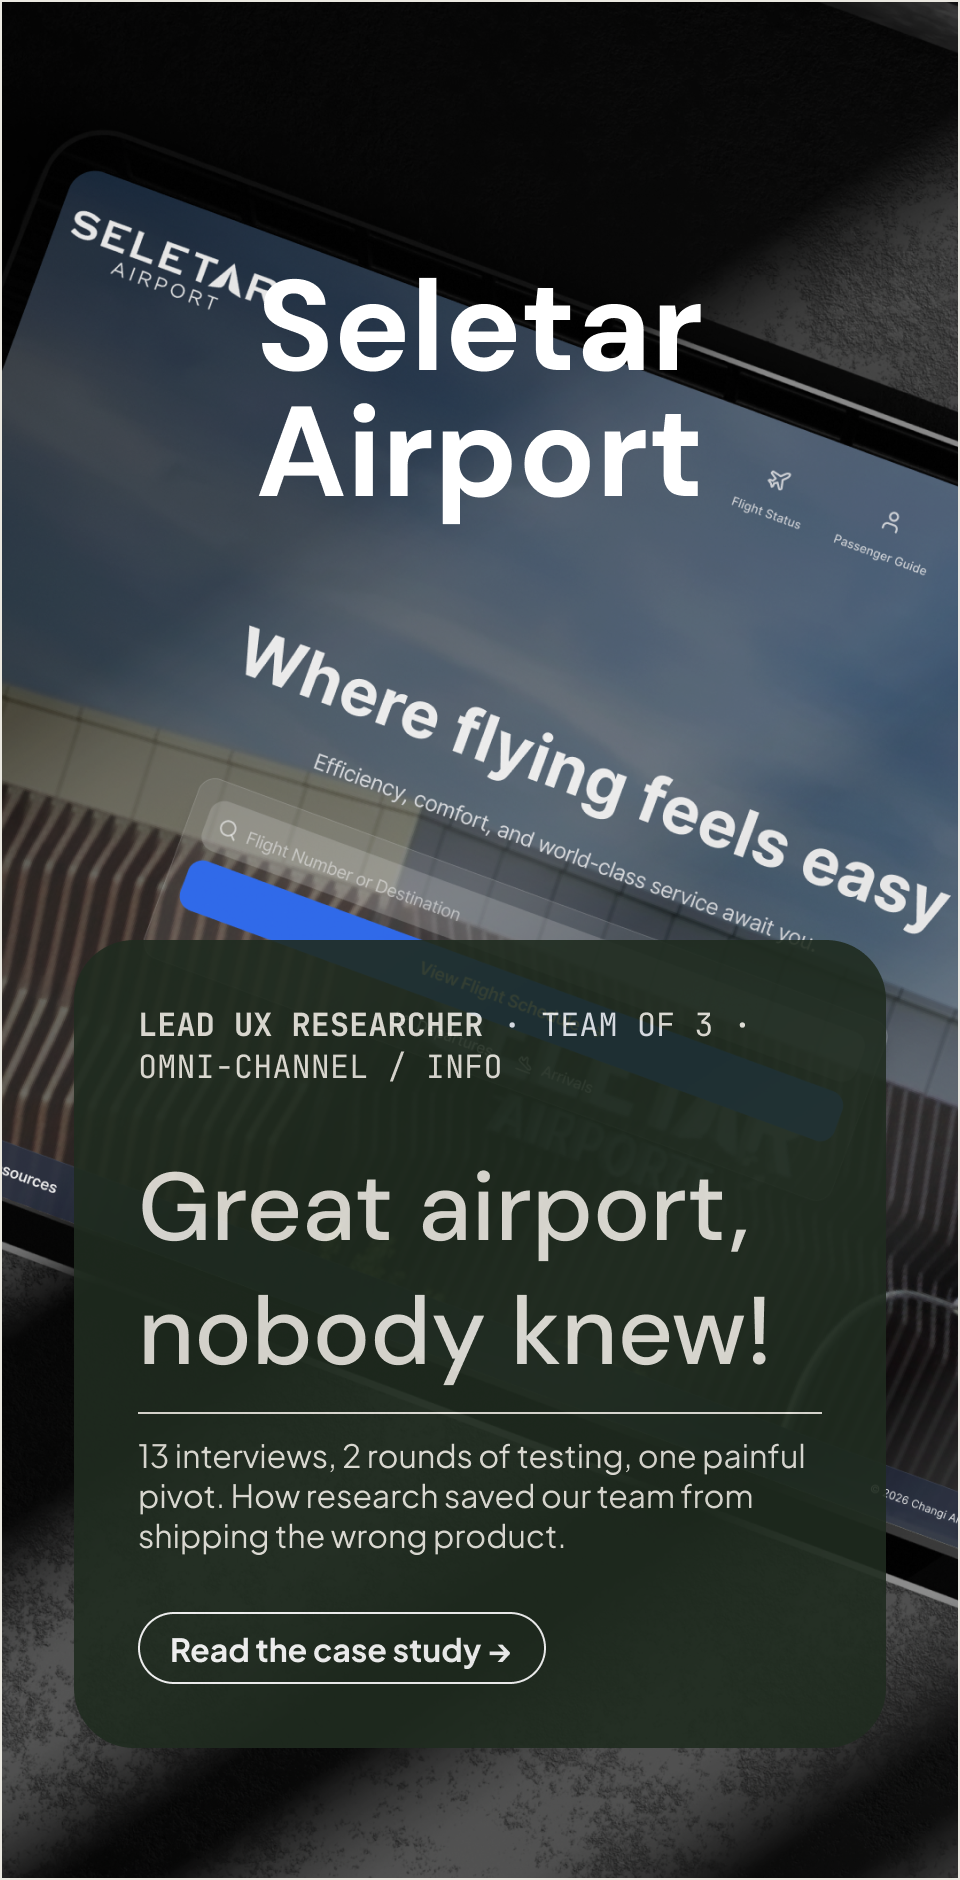
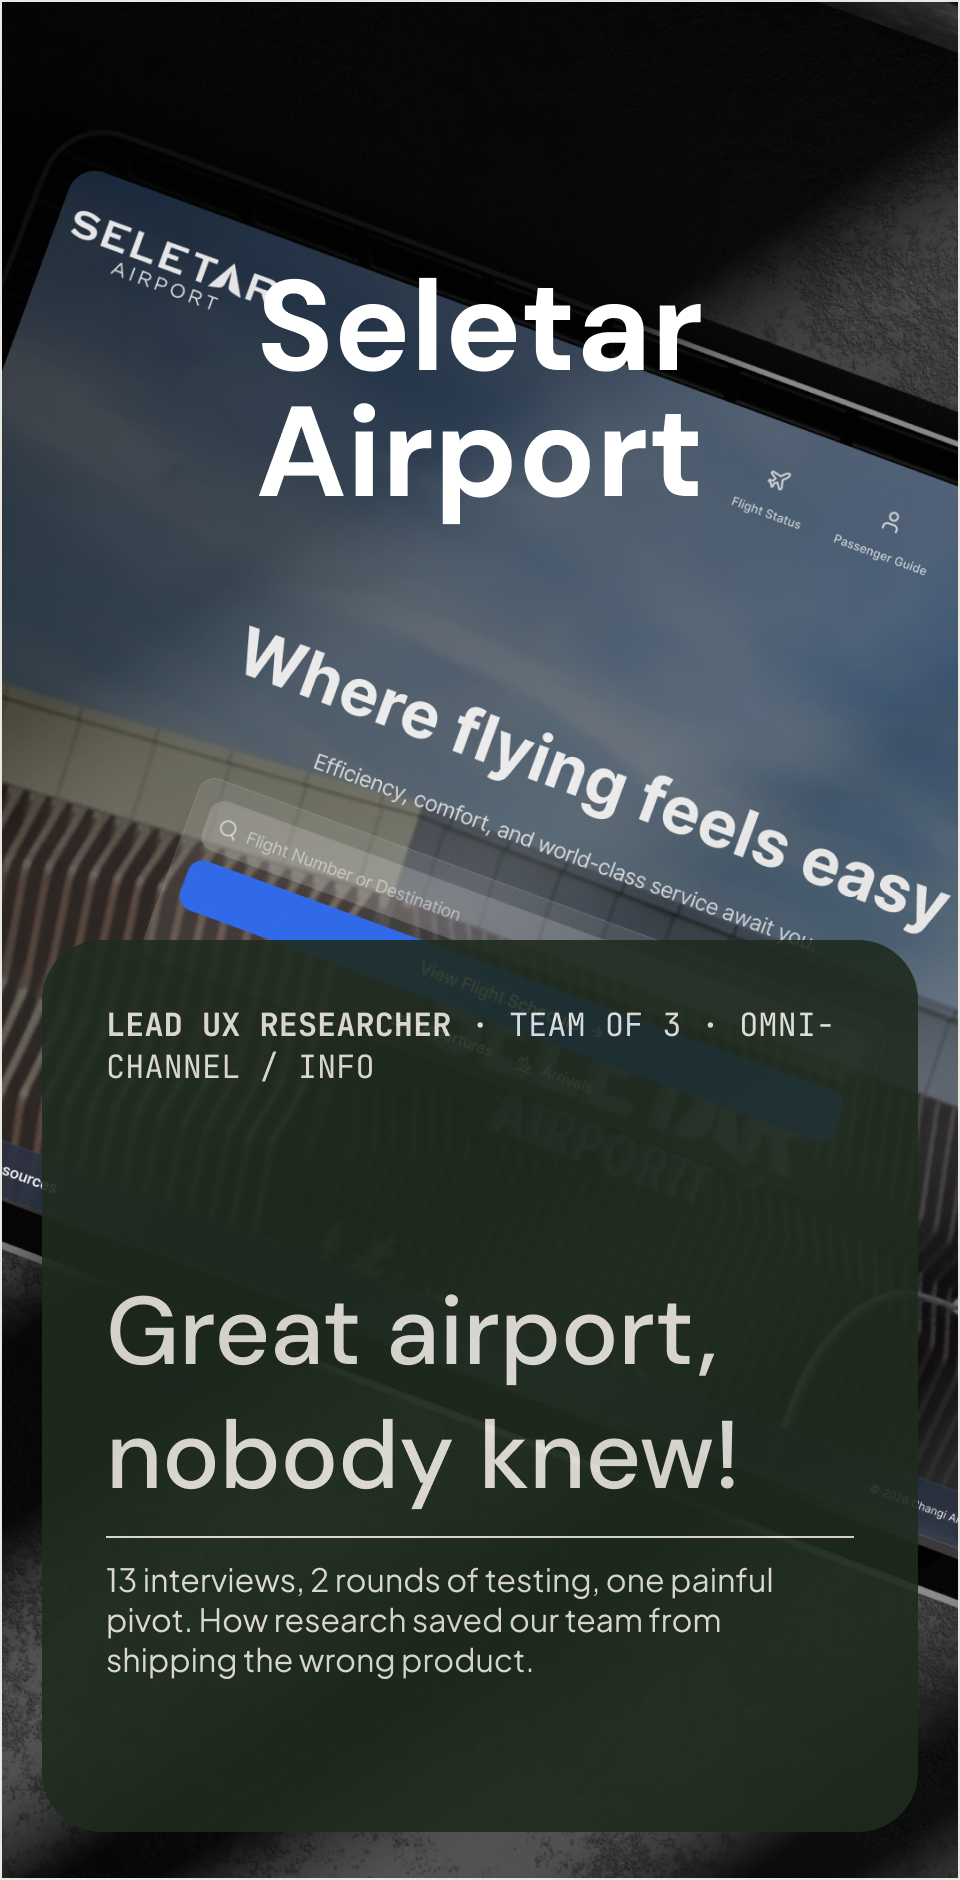
update asset

diff --git a/index.html b/index.html
@@ -364,12 +364,11 @@
       pointer-events: auto;
     }
 
-    /* "Read the case study →" button — appears on column hover */
+    /* "Read the case study →" button — left-aligned, content-hug width */
     .work-read-btn {
       position: absolute;
       bottom: 44px;
-      left: 50%;
-      transform: translateX(-50%);
+      left: 32px;
       z-index: 4;
       display: inline-flex;
       align-items: center;
@@ -399,11 +398,11 @@
       display: inline-block;
       transition: transform 0.15s ease;
     }
-    /* Hover state — button brightens, arrow nudges right */
+    /* Hover state */
     .work-read-btn:hover {
       background: #fff;
       box-shadow: 0 4px 16px rgba(0,0,0,0.18);
-      transform: translateX(-50%) translateY(-2px);
+      transform: translateY(-2px);
     }
     .work-read-btn:hover .btn-arrow {
       transform: translateX(4px);
@@ -412,7 +411,7 @@
     .work-read-btn:active {
       background: var(--bg-warm);
       box-shadow: 0 1px 4px rgba(0,0,0,0.12);
-      transform: translateX(-50%) scale(0.96);
+      transform: scale(0.96);
       transition-duration: 0.06s;
     }
     .work-read-btn:active .btn-arrow {